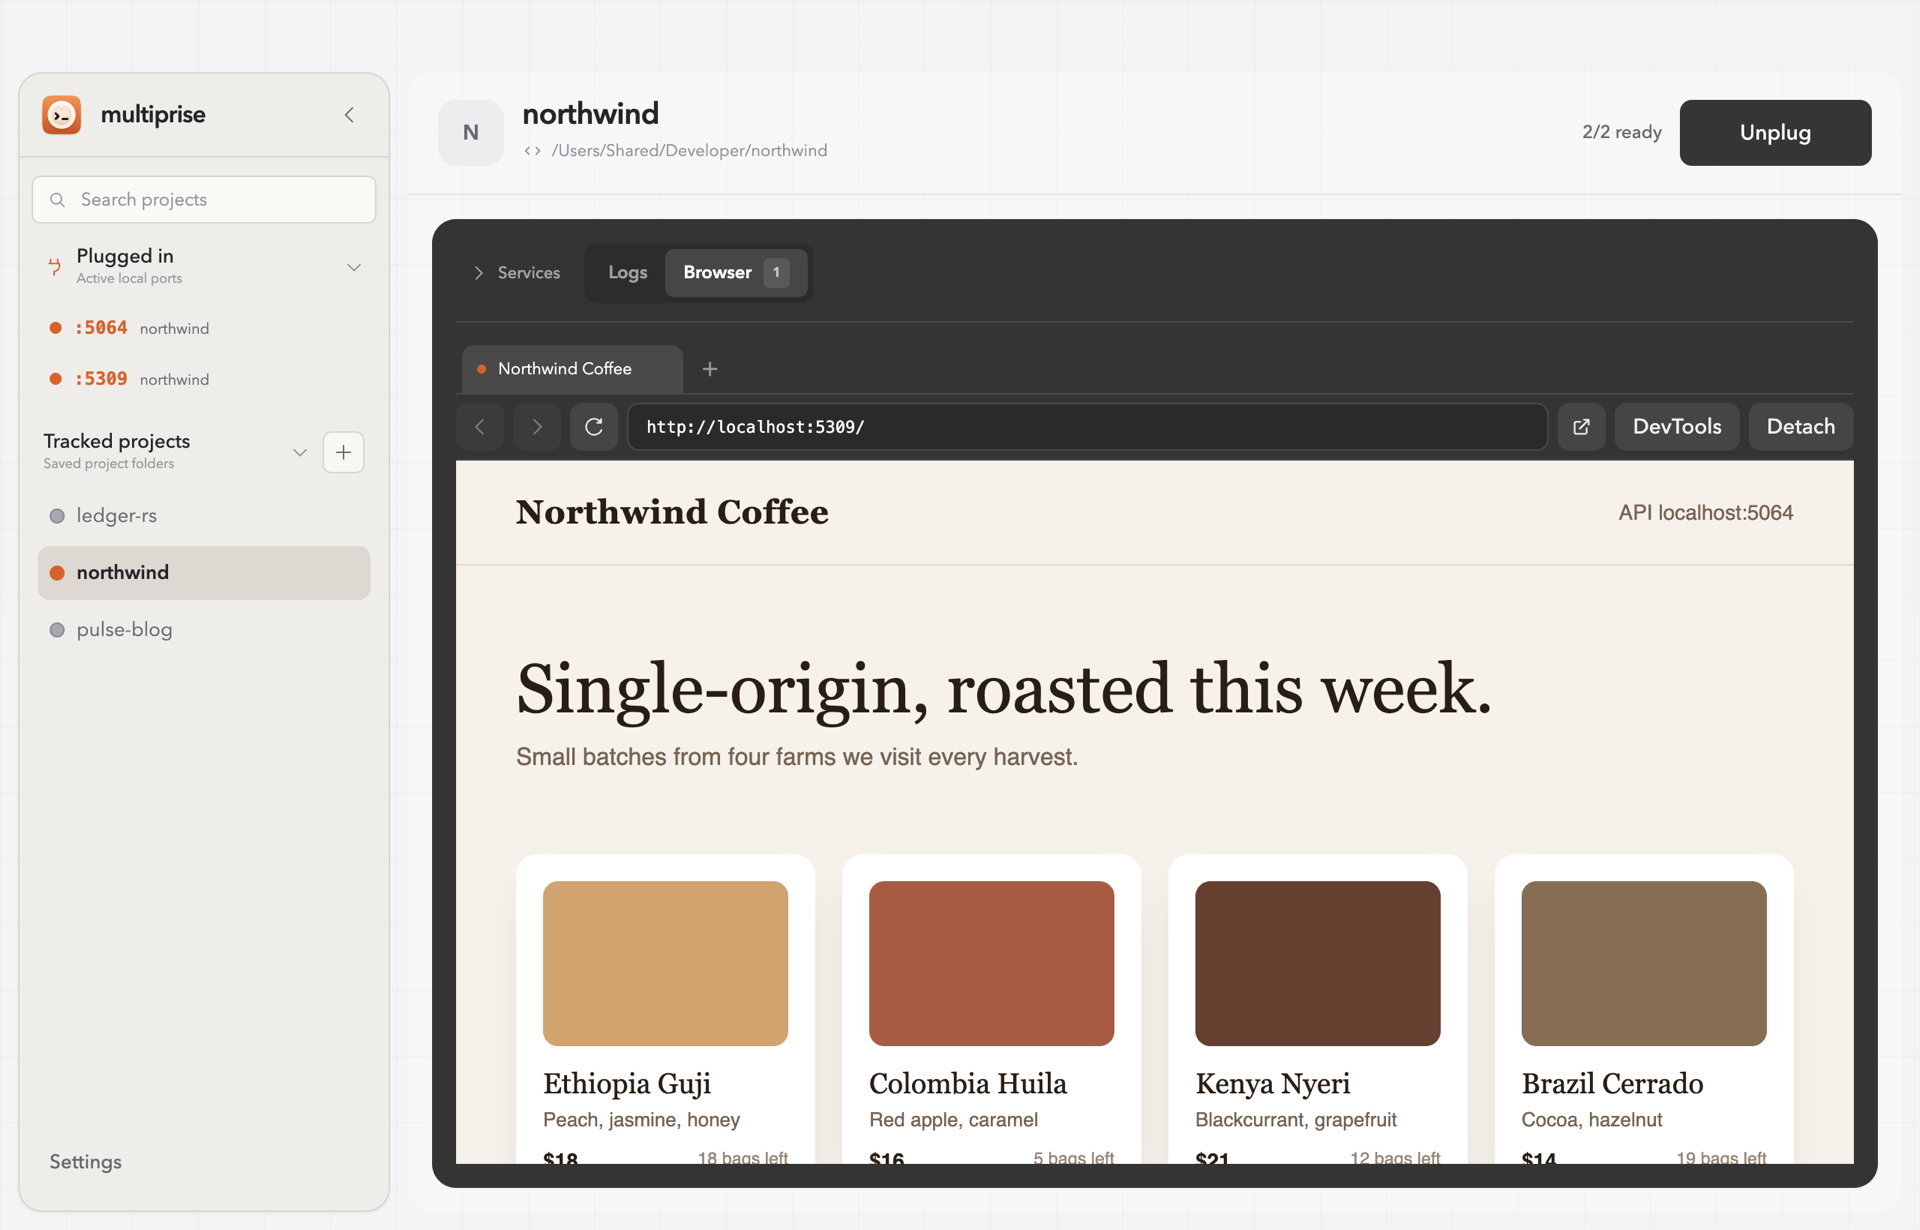
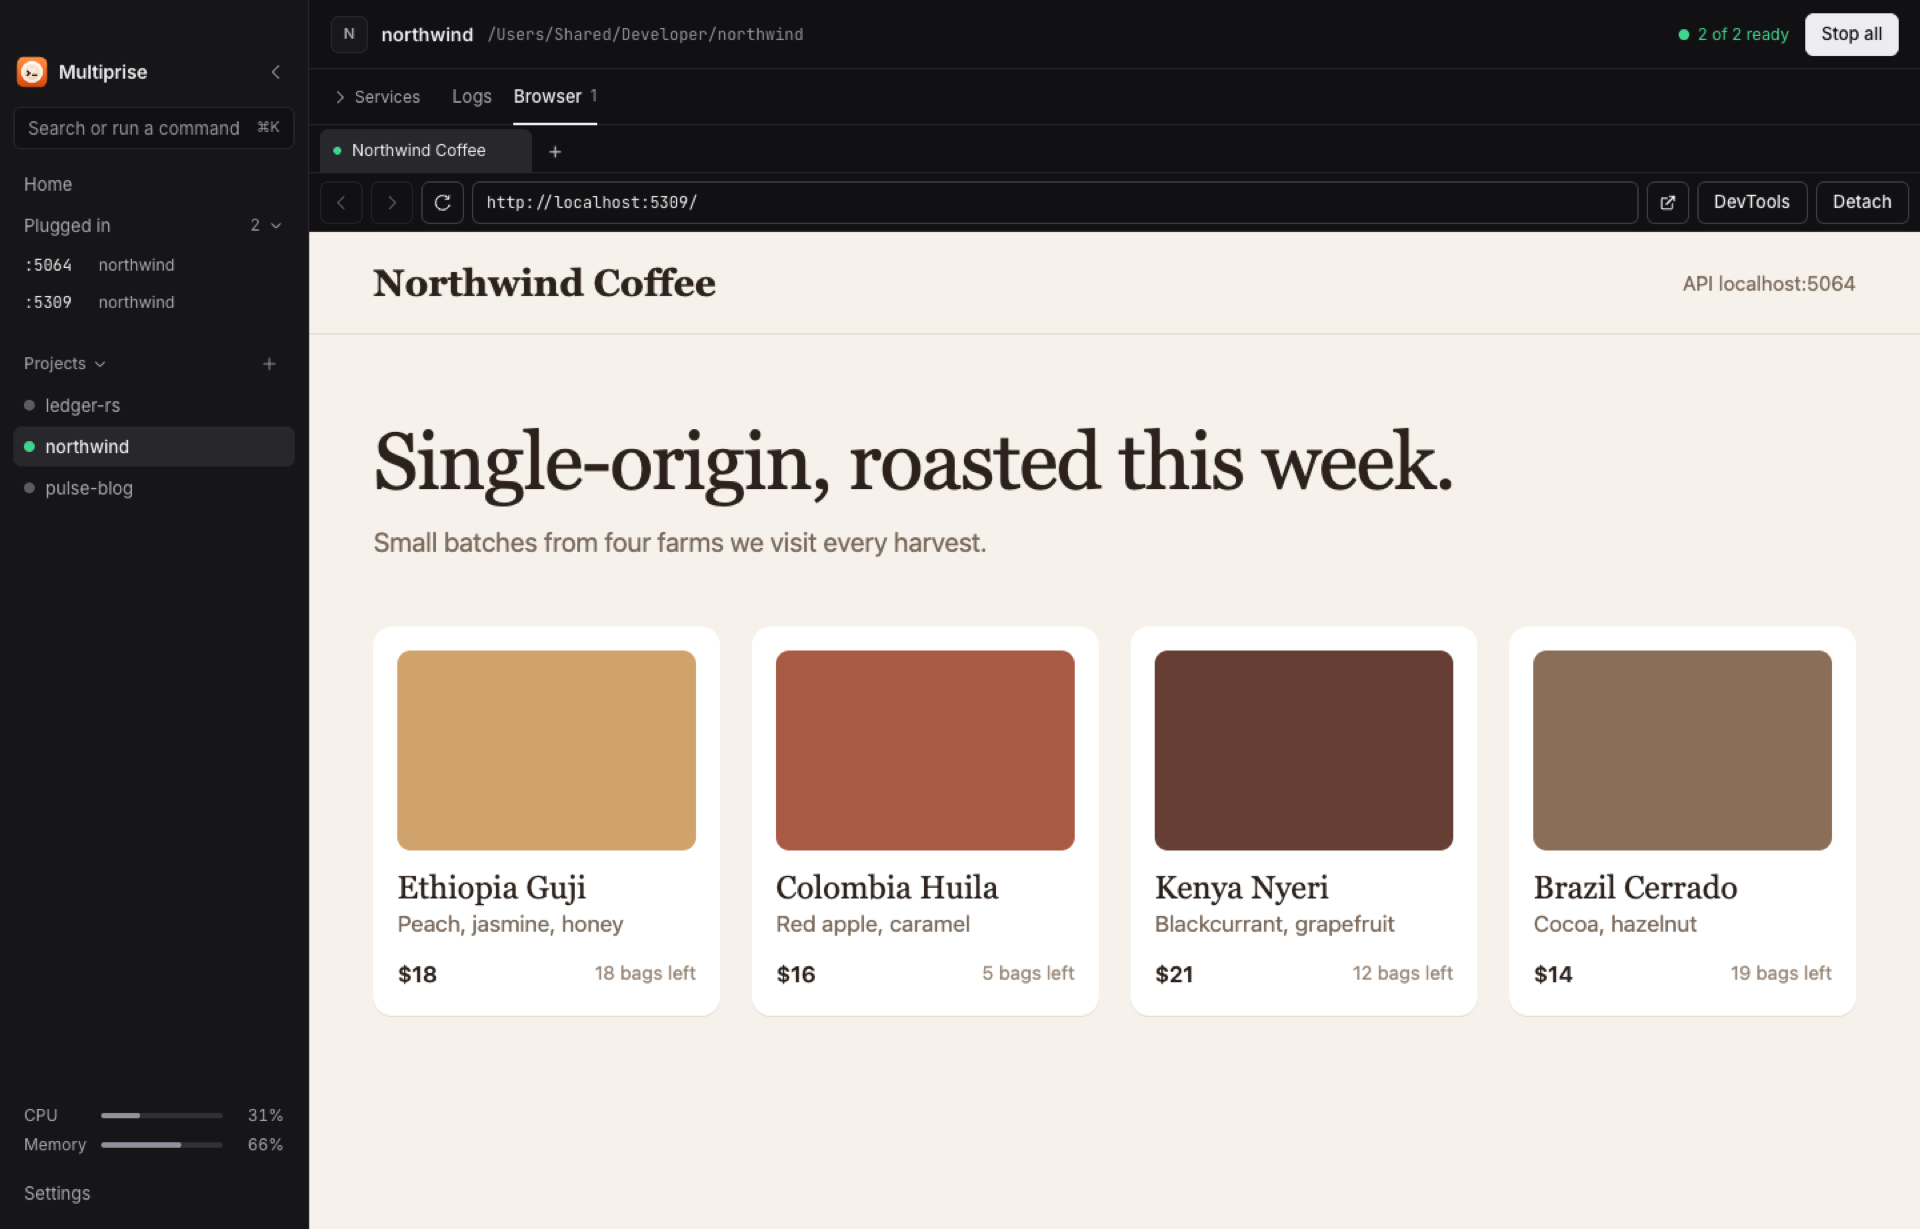
Landing page: open source, the CLI, Your Mac section and dark product shots
The hero shows a project's services beside its in-app preview. New sections
cover the multiprise CLI and MCP server, and every dev server on the Mac with
its CPU and memory. Screenshots are retaken in the dark theme.

diff --git a/site/index.html b/site/index.html
@@ -210,12 +210,12 @@ nav .links a:hover { color: var(--text); }
 .env div.on { opacity: 1; transform: none; }
 .env .k { color: var(--muted); }
 
-/* ---------- logs + preview ---------- */
-#logs { overflow-x: clip; }  /* the preview starts off to the right before sliding in */
-#logs .fvis { height: clamp(360px, 52vw, 640px); }
-#logs .frame { position: absolute; width: 74%; will-change: transform; }
-#logs .frame.a { left: 0; top: 0; }
-#logs .frame.b { right: 0; top: 16%; }
+/* ---------- pairs of screenshots: the second slides over the first ---------- */
+.pair { overflow-x: clip; }  /* the second shot starts off to the right before sliding in */
+.pair .fvis { height: clamp(360px, 52vw, 640px); }
+.pair .frame { position: absolute; width: 74%; will-change: transform; }
+.pair .frame.a { left: 0; top: 0; }
+.pair .frame.b { right: 0; top: 16%; }
 
 /* ---------- command line + MCP (SITE.features.cli) ---------- */
 .term { border-radius: 14px; background: #1c1917; color: #e7e5e4; padding: 26px 30px; font: 14px/2 var(--mono); overflow-x: auto; box-shadow: 0 30px 70px -40px rgba(28,25,23,.5); }
@@ -291,8 +291,8 @@ footer a:hover { color: var(--text); }
   .lane > span { font-size: 13px; }
   .chip { font-size: 12px; padding: 5px 10px; }
   .env { margin: 24px 0 0; font-size: 12px; }
-  #logs .fvis { height: auto; display: grid; gap: 18px; }
-  #logs .frame { position: relative; width: 100%; inset: auto; transform: none !important; opacity: 1 !important; }
+  .pair .fvis { height: auto; display: grid; gap: 18px; }
+  .pair .frame { position: relative; width: 100%; inset: auto; transform: none !important; opacity: 1 !important; }
   .closing { padding: 110px 0 100px; }
   .term { padding: 20px; font-size: 12px; }
   .way .term { padding-right: 20px; padding-top: 52px; }
@@ -317,9 +317,10 @@ footer a:hover { color: var(--text); }
     <div class="links">
       <a href="#ideas">How it works</a>
       <a href="#cli" data-feature="cli">CLI &amp; MCP</a>
+      <a href="#mac">Your Mac</a>
       <a href="#ports">Ports</a>
-      <a href="#privacy">Privacy</a>
       <a href="#get">Get it</a>
+      <a data-link="repo" href="#">GitHub</a>
     </div>
     <a class="btn small" data-download href="#get"><svg viewBox="0 0 814 1000" aria-hidden="true"><path d="M788 341c-6 4-108 62-108 190 0 148 130 200 134 201-1 3-21 71-68 141-43 61-87 122-156 122s-86-40-165-40c-77 0-104 41-167 41s-107-57-158-127C42 787 0 671 0 560c0-178 116-272 230-272 61 0 111 40 149 40 37 0 94-42 163-42 26 0 120 2 182 91zM543 173c29-34 49-81 49-129 0-6 0-13-2-18-47 2-102 31-135 69-26 29-50 76-50 124 0 7 1 14 2 17 3 0 8 1 12 1 42 0 95-28 124-64z"/></svg>Download</a>
   </div>
@@ -357,7 +358,7 @@ footer a:hover { color: var(--text); }
       </div>
       <div class="shot-wrap">
         <div class="shot-glow" aria-hidden="true"></div>
-        <div class="shot" id="heroShot"><img src="img/launch.png" alt="Multiprise running a project: the api and web services are ready on their own ports, with their logs streaming beside them" width="1920" height="1230" data-ph="App screenshot"></div>
+        <div class="shot" id="heroShot"><img src="img/hero.png" alt="Multiprise running a project: the api and web services are ready on their own ports, with the storefront they serve open in the in-app browser beside them" width="1920" height="1229" data-ph="App screenshot"></div>
       </div>
     </div>
   </div>
@@ -373,7 +374,7 @@ footer a:hover { color: var(--text); }
 <!-- 3. Ideas: three beats, one at a time, each visual plays out as you scroll.
      Beat 1 is the atlas demo project from img/add.png: its real manifest lines and what the
      scanner detects from them. Beats 2 and 3 are illustrations built from the real launch
-     (ports from img/launch.png, log lines from img/logs.png). -->
+     (ports from img/hero.png, log lines from img/logs.png). -->
 <section class="scene" id="ideas">
   <div class="stage">
     <div class="wrap ideas">
@@ -427,16 +428,16 @@ footer a:hover { color: var(--text); }
   <div class="wrap">
     <div class="fhead">
       <h2 class="rv">Command line<br>and MCP</h2>
-      <p class="rv d1"><b>Your agents reuse what's already running.</b> The multiprise command and its MCP server let coding agents start services, read their logs and get their URLs instead of starting duplicates on random ports. <span data-when="next">Coming in the next release.</span></p>
+      <p class="rv d1"><b>Your agents reuse what's already running.</b> Everything the app does, from a terminal or an agent: start services, read their logs, get their URLs, instead of starting duplicates on random ports. <span data-when="next">Coming in the next release.</span></p>
     </div>
     <div class="term rv" id="term">
-      <div><span class="p">$</span> multiprise ls          <span class="c"># every project and service, with status and URL</span></div>
-      <div><span class="p">$</span> multiprise up          <span class="c"># start the project containing this folder, backend first</span></div>
+      <div><span class="p">$</span> multiprise up          <span class="c"># start the project in this folder, or this worktree, backend first</span></div>
       <div><span class="p">$</span> multiprise logs web -f <span class="c"># follow a service's output</span></div>
-      <div><span class="p">$</span> open "$(multiprise url web)"</div>
+      <div><span class="p">$</span> multiprise running     <span class="c"># every dev server on this Mac, whoever started it</span></div>
+      <div><span class="p">$</span> multiprise usage       <span class="c"># CPU and memory, per project</span></div>
       <div> </div>
-      <div><span class="p">$</span> claude mcp add multiprise -- multiprise mcp</div>
-      <div><span class="c"># agents get list_services, start_service, stop_service, restart_service, tail_logs and get_url</span></div>
+      <div><span class="p">$</span> multiprise agents connect</div>
+      <div><span class="c"># Claude Code starts servers through Multiprise: start_service, tail_logs, get_url, get_usage…</span></div>
     </div>
   </div>
 </section>
@@ -449,14 +450,14 @@ footer a:hover { color: var(--text); }
       <p class="rv d1"><b>Point it at a folder.</b> Multiprise picks each service's dev script, installs missing dependencies, and starts the backend before the frontend.</p>
     </div>
     <div class="fvis rv">
-      <div class="frame dialog"><img src="img/add.png" alt="Adding a project in Multiprise: three services are detected, two npm scripts and a Cargo worker" width="1427" height="797" data-ph="Add screenshot"></div>
+      <div class="frame dialog"><img src="img/add.png" alt="Adding a project in Multiprise: three services are detected, two npm scripts and a Cargo worker" width="1536" height="902" data-ph="Add screenshot"></div>
     </div>
     <p class="tokens rv">Works with <code>npm</code> <code>pnpm</code> <code>Yarn</code> <code>Bun</code> <code>Cargo</code> <code>Docker Compose</code> and keeps any command you edit.</p>
   </div>
 </section>
 
 <!-- 6. Ports and wiring: the real ranges (port-ranges.json) and the variables from buildStartEnv.
-     The api and web ports are the ones from the real launch in img/launch.png; the ports held
+     The api and web ports are the ones from the real launch in img/hero.png; the ports held
      by other apps are examples. -->
 <section class="scene" id="ports">
   <div class="stage">
@@ -481,20 +482,35 @@ footer a:hover { color: var(--text); }
 </section>
 
 <!-- 7. Logs and preview: two real screenshots; the preview slides over the logs as you scroll. -->
-<section class="feature" id="logs">
+<section class="feature pair" id="logs">
   <div class="wrap">
     <div class="fhead">
       <h2 class="rv">Logs<br>and preview</h2>
       <p class="rv d1"><b>See what every service is doing.</b> Search and filter all of their output in one stream, and open any frontend in a tab right beside it.</p>
     </div>
     <div class="fvis">
-      <div class="frame a" id="logsA"><img src="img/logs.png" alt="Logs from the api and web services in one stream, with warnings highlighted" width="1920" height="1230" data-ph="Logs screenshot"></div>
-      <div class="frame b" id="logsB"><img src="img/browser.png" alt="The running storefront open in Multiprise's in-app browser" width="1920" height="1230" data-ph="Preview screenshot"></div>
+      <div class="frame a" id="logsA"><img src="img/logs.png" alt="The project's logs searched for &quot;stock&quot;, with matches and warnings highlighted" width="1920" height="1229" data-ph="Logs screenshot"></div>
+      <div class="frame b" id="logsB"><img src="img/browser.png" alt="The running storefront open in Multiprise's in-app browser" width="1920" height="1229" data-ph="Preview screenshot"></div>
     </div>
   </div>
 </section>
 
-<!-- 8. Privacy: four statements, one after another. -->
+<!-- 8. Your Mac: every dev server, whoever started it, and what it costs. Real captures of the
+     demo profile; the servers Multiprise did not start and the machine figures are illustrations. -->
+<section class="feature pair" id="mac">
+  <div class="wrap">
+    <div class="fhead">
+      <h2 class="rv">Everything<br>on your Mac</h2>
+      <p class="rv d1"><b>See every dev server, whoever started it.</b> Yours, a terminal's, or an agent's in a worktree, with the ones left behind marked. Then see what each project costs in CPU and memory, and what else is using your Mac.</p>
+    </div>
+    <div class="fvis">
+      <div class="frame a" id="macA"><img src="img/running.png" alt="Home in Multiprise: every dev server on the Mac with its port, command and who started it, and one left behind by a closed terminal" width="1920" height="1229" data-ph="Running screenshot"></div>
+      <div class="frame b" id="macB"><img src="img/activity.png" alt="Activity in Multiprise: the Mac's CPU and memory over the last minutes, and what each dev server takes" width="1920" height="1229" data-ph="Activity screenshot"></div>
+    </div>
+  </div>
+</section>
+
+<!-- 9. Privacy: five statements, one after another. -->
 <section class="feature" id="privacy">
   <div class="wrap">
     <div class="fhead">
@@ -506,16 +522,17 @@ footer a:hover { color: var(--text); }
       <p class="rv"><b>No account.</b> Download it and open it.</p>
       <p class="rv"><b>No telemetry.</b> It never phones home.</p>
       <p class="rv"><b>Sandboxed tabs.</b> Previews can't reach the app's controls.</p>
+      <p class="rv"><b>Open source.</b> Read every line it runs.</p>
     </div>
   </div>
 </section>
 
-<!-- 9. Get it early: open source, before its first full release. -->
+<!-- 10. Get it early: open source, before its first full release. -->
 <section class="feature" id="get">
   <div class="wrap">
     <div class="fhead">
       <h2 class="rv">Open source.<br>Get it early.</h2>
-      <p class="rv d1"><b>Multiprise isn't fully released yet.</b> Grab the early build for your Mac, or run it straight from the source.</p>
+      <p class="rv d1"><b>MIT licensed, built in the open.</b> Grab the early build for your Mac, or run it from the source. Issues and pull requests are welcome.</p>
     </div>
     <div class="get rv">
       <div class="seg" role="tablist" aria-label="Ways to get Multiprise">
@@ -539,7 +556,7 @@ footer a:hover { color: var(--text); }
   </div>
 </section>
 
-<!-- 10. Closing -->
+<!-- 11. Closing -->
 <section class="closing">
   <div class="wrap">
     <h2 class="rv">Plug in.<br><span>Start building.</span></h2>
@@ -566,16 +583,16 @@ footer a:hover { color: var(--text); }
    features: false = that section stays hidden until it ships.
    ============================================================ */
 const SITE = {
-  version: "0.1.0",
+  version: "0.2.0",
   requirements: "Apple Silicon · macOS 12 or later",
   links: {
     download: "https://github.com/Djbrl/multiprise/releases/latest",  // GitHub for now; a direct .dmg URL also works
     repo: "https://github.com/Djbrl/multiprise",
   },
   features: {
-    // the multiprise CLI + MCP server (on the app-improvements branch, not released yet):
-    // false = hidden, "next" = shown as coming in the next release, true = shown as available
-    cli: "next",
+    // the multiprise CLI + MCP server: false = hidden, "next" = shown as coming in the next
+    // release, true = shown as available
+    cli: true,
   },
   license: "MIT",
   // the band under the header: "soon" = Windows build coming, with the waitlist; null = no band
@@ -707,7 +724,7 @@ const takenVite = $('#railFe .taken[data-port="5173"]');  // Vite's default: usu
 const hero = $("#hero"), shot = $("#heroShot");
 const ideas = $("#ideas"), ideaEls = [...document.querySelectorAll(".idea")], vizEls = [...document.querySelectorAll(".viz")], railEls = [...document.querySelectorAll(".rail b")];
 const ports = $("#ports"), envEls = [...document.querySelectorAll("#env div")];
-const logs = $("#logs"), logsA = $("#logsA"), logsB = $("#logsB");
+const pairs = [[$("#logs"), $("#logsA"), $("#logsB")], [$("#mac"), $("#macA"), $("#macB")]];
 const desktop = matchMedia("(min-width: 901px)");
 
 function heroFrame() {
@@ -764,16 +781,16 @@ function portsFrame() {
   envEls.forEach((el, i) => el.classList.toggle("on", p > .8 + i * .05));
 }
 
-function logsFrame() {
-  if (!desktop.matches) { logsA.style.transform = logsB.style.transform = logsB.style.opacity = ""; return; }
-  const q = ease(win(progress(logs, true), .15, .65));
-  logsA.style.transform = `translateX(${(1 - q) * 4}%)`;
-  logsB.style.transform = `translateX(${(1 - q) * 22}%)`;
-  logsB.style.opacity = .35 + q * .65;
+function pairFrame([section, a, b]) {
+  if (!desktop.matches) { a.style.transform = b.style.transform = b.style.opacity = ""; return; }
+  const q = ease(win(progress(section, true), .15, .65));
+  a.style.transform = `translateX(${(1 - q) * 4}%)`;
+  b.style.transform = `translateX(${(1 - q) * 22}%)`;
+  b.style.opacity = .35 + q * .65;
 }
 
 let queued = false;
-function frame() { queued = false; heroFrame(); ideasFrame(); portsFrame(); logsFrame(); }
+function frame() { queued = false; heroFrame(); ideasFrame(); portsFrame(); pairs.forEach(pairFrame); }
 const request = () => { if (!queued) { queued = true; requestAnimationFrame(frame); } };
 addEventListener("scroll", request, { passive: true });
 addEventListener("resize", request);

diff --git a/site/README.md b/site/README.md
@@ -3,7 +3,7 @@
 One static file, `index.html`. No build step. Preview with `python3 -m http.server 4321 -d site`.
 
 **To update, edit only the `SITE` object at the top of the `<script>` in `index.html`:**
-- `links.download`: the public DMG URL. While it is `null`, every Download button is greyed out and the page says "Download available soon". Only set it once the URL works for a logged-out visitor (the GitHub repo and release are private today).
+- `links.download`: the public DMG URL. While it is `null`, every Download button is greyed out and the page says "Download available soon". Only set it to a URL that works for a logged-out visitor.
 - `links.repo`: the public GitHub repo. The GitHub links stay hidden while it is `null`.
 - `version`, `requirements`, `license`: shown under the closing Download button and in the footer.
 
@@ -11,7 +11,7 @@ One static file, `index.html`. No build step. Preview with `python3 -m http.serv
 
 **Brand files** (`icon.svg`, `lockup.svg`, `apple-touch-icon.png`, `og.png`) are generated copies of `brand/`: edit the sources there and run `npm run generate:icons`, never the copies here.
 
-**Screenshots** in `img/` are real captures of the running app in its light theme (demo projects in a scratch profile), 1920 px wide; `add.png` is the same kind of capture cropped to the Add Projects dialog. Missing files show a placeholder frame. The figures and the ruler's example ports are illustrations; the wiring card uses the ports from the real launch in `img/launch.png` (api :5064, web :5309), so update both together if you recapture.
+**Screenshots** in `img/` are real captures of the running app in its dark theme, 1920 px wide, taken with demo projects (northwind, ledger-rs, pulse-blog, atlas) in a scratch profile; `add.png` is cropped to the Add Projects dialog. In `running.png` and `activity.png` the servers Multiprise did not start and the machine's figures are illustrations, so no real machine shows. Missing files show a placeholder frame. The figures and the ruler's example ports are illustrations; the wiring card uses the ports from the real launch in `img/hero.png` (api :5064, web :5309), so update both together if you recapture.
 
 **Live:** https://multiprise.vercel.app (Vercel project `bountbi/multiprise`).
 
